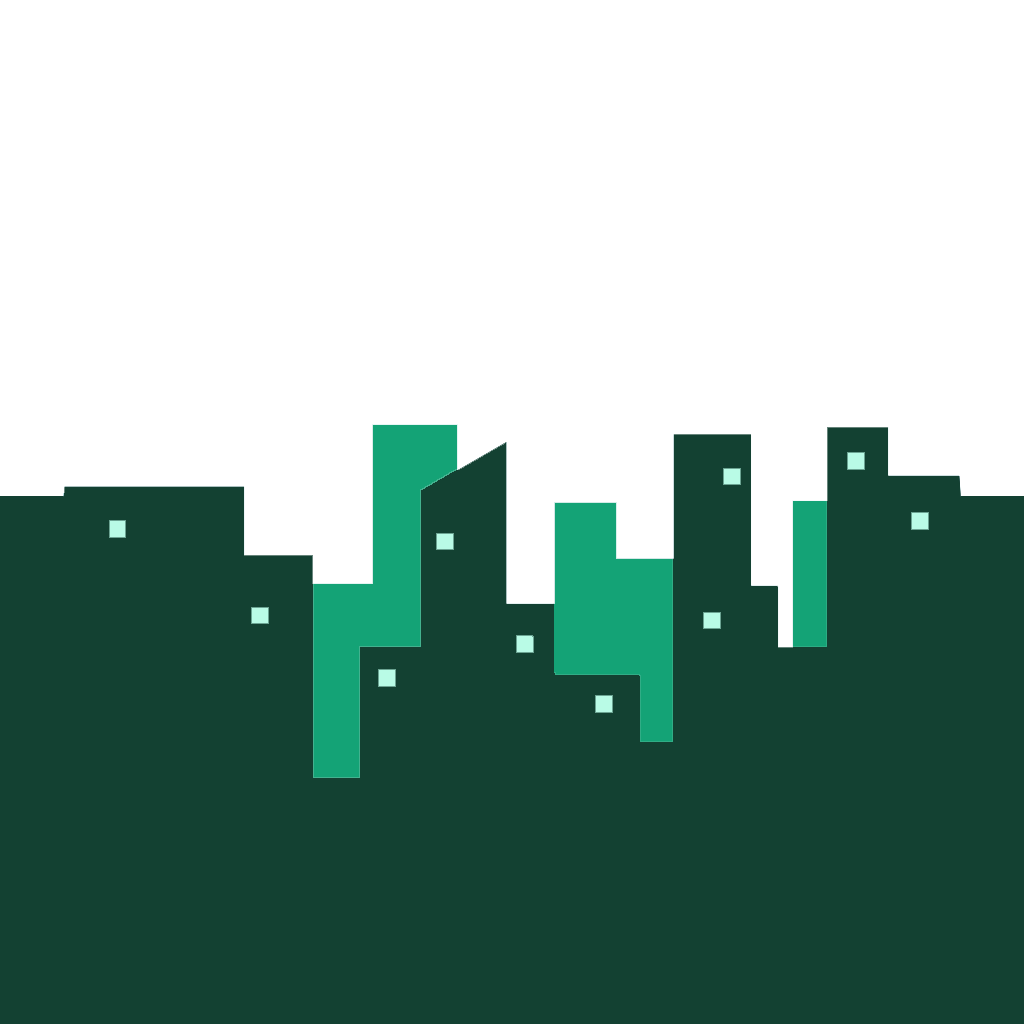
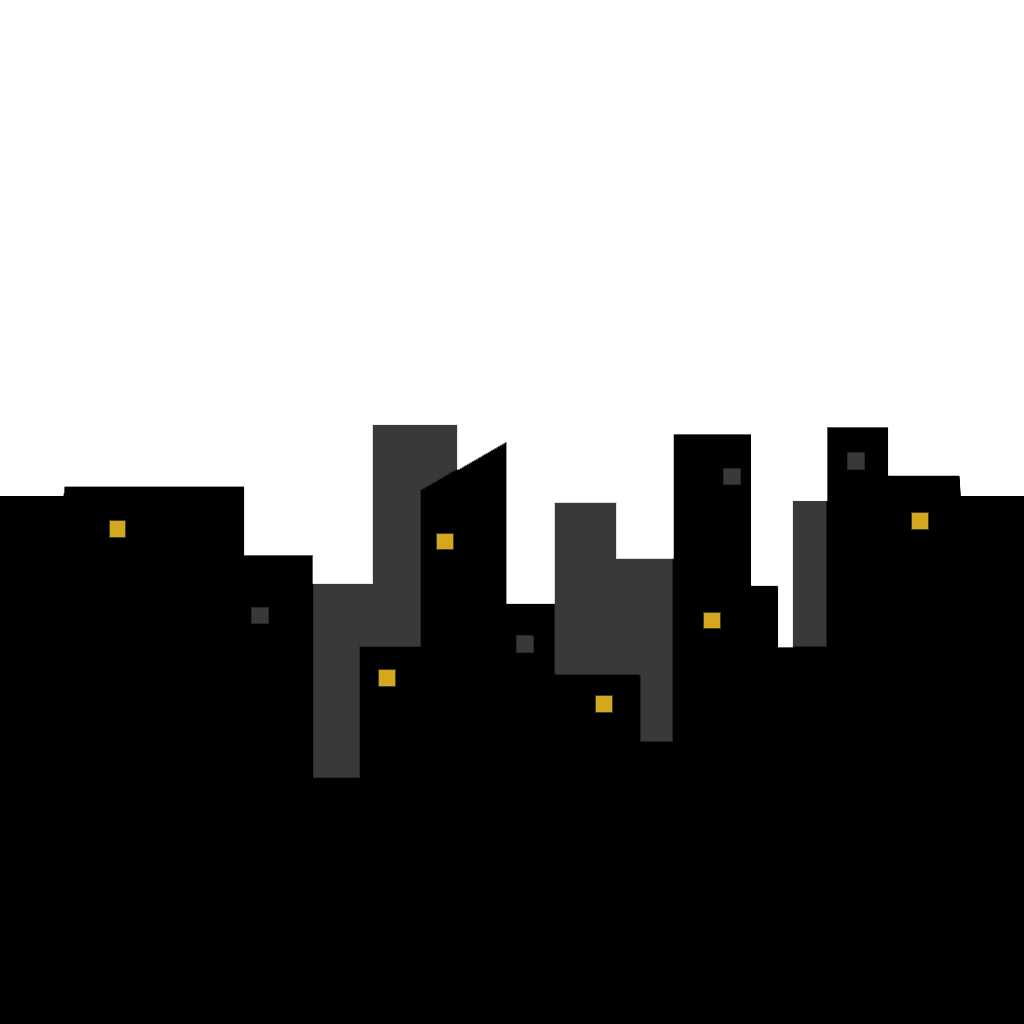
Add files via upload

diff --git a/main_1.css b/main_1.css
@@ -15,6 +15,19 @@ html
 	justify-content:center;
 }
 
+.starEfect
+{
+	width:100vw;
+	height:100vh;
+}
+
+.star
+{
+	top:200px;
+	left:320px;
+	position:absolute;
+}
+
 @font-face
 {
 	font-family:ubuntuFS;
@@ -27,10 +40,18 @@ html
 	width:100vw;
 	height:100vh;
 	display:flex;
-	background:#96F0B0;
+	background:#96f0b0;
 	align-items:center;
 	flex-direction:column;
-	justify-content:center;	background:url(src/BackGD1A.png) no-repeat center fixed; background-size:cover
+	justify-content:center;
+	background:url(src/BackGD1A.png) repeat-x center fixed, url(src/sky.png) repeat-x;
+	background-position:0 100%, 0 100%;
+	animation: 3s backGR infinite alternate;
+}
+
+@keyframes backGR
+{
+  100%{background-position:0px 100%,-2500px 100%;}
 }
 
 img
@@ -78,15 +99,15 @@ img
 #loader
 { 
 	z-index:1;
-  width:170px;
-  height:170px;
+  width:165px;
+  height:165px;
 	display:flex;
 	position:absolute;
 	border-radius:100%;
 	align-items:center;
 	justify-content:center;
-  border:16px solid #f3f3f3;
-  border-top:16px solid #14a376;
+  border:14px solid rgba(0, 0, 0, 0.9);
+  border-top:16px solid #d5a71c;
   animation:loader 2s linear infinite;
 }
 

diff --git a/index.html b/index.html
@@ -10,9 +10,14 @@
 </head>
 <body>
 	<div class="mobile-container">
+				
 		<div id="loader"></div>
 		<div id="content-logo">
-			<div id="backGR"></div>
+			<div id="backGR">
+				<!-- <div class="starEfect">
+					<img src="src/star.png" class="star" width="25" height="25">
+				</div> -->
+			</div>
 		</div>
 	</div>
 </body>
